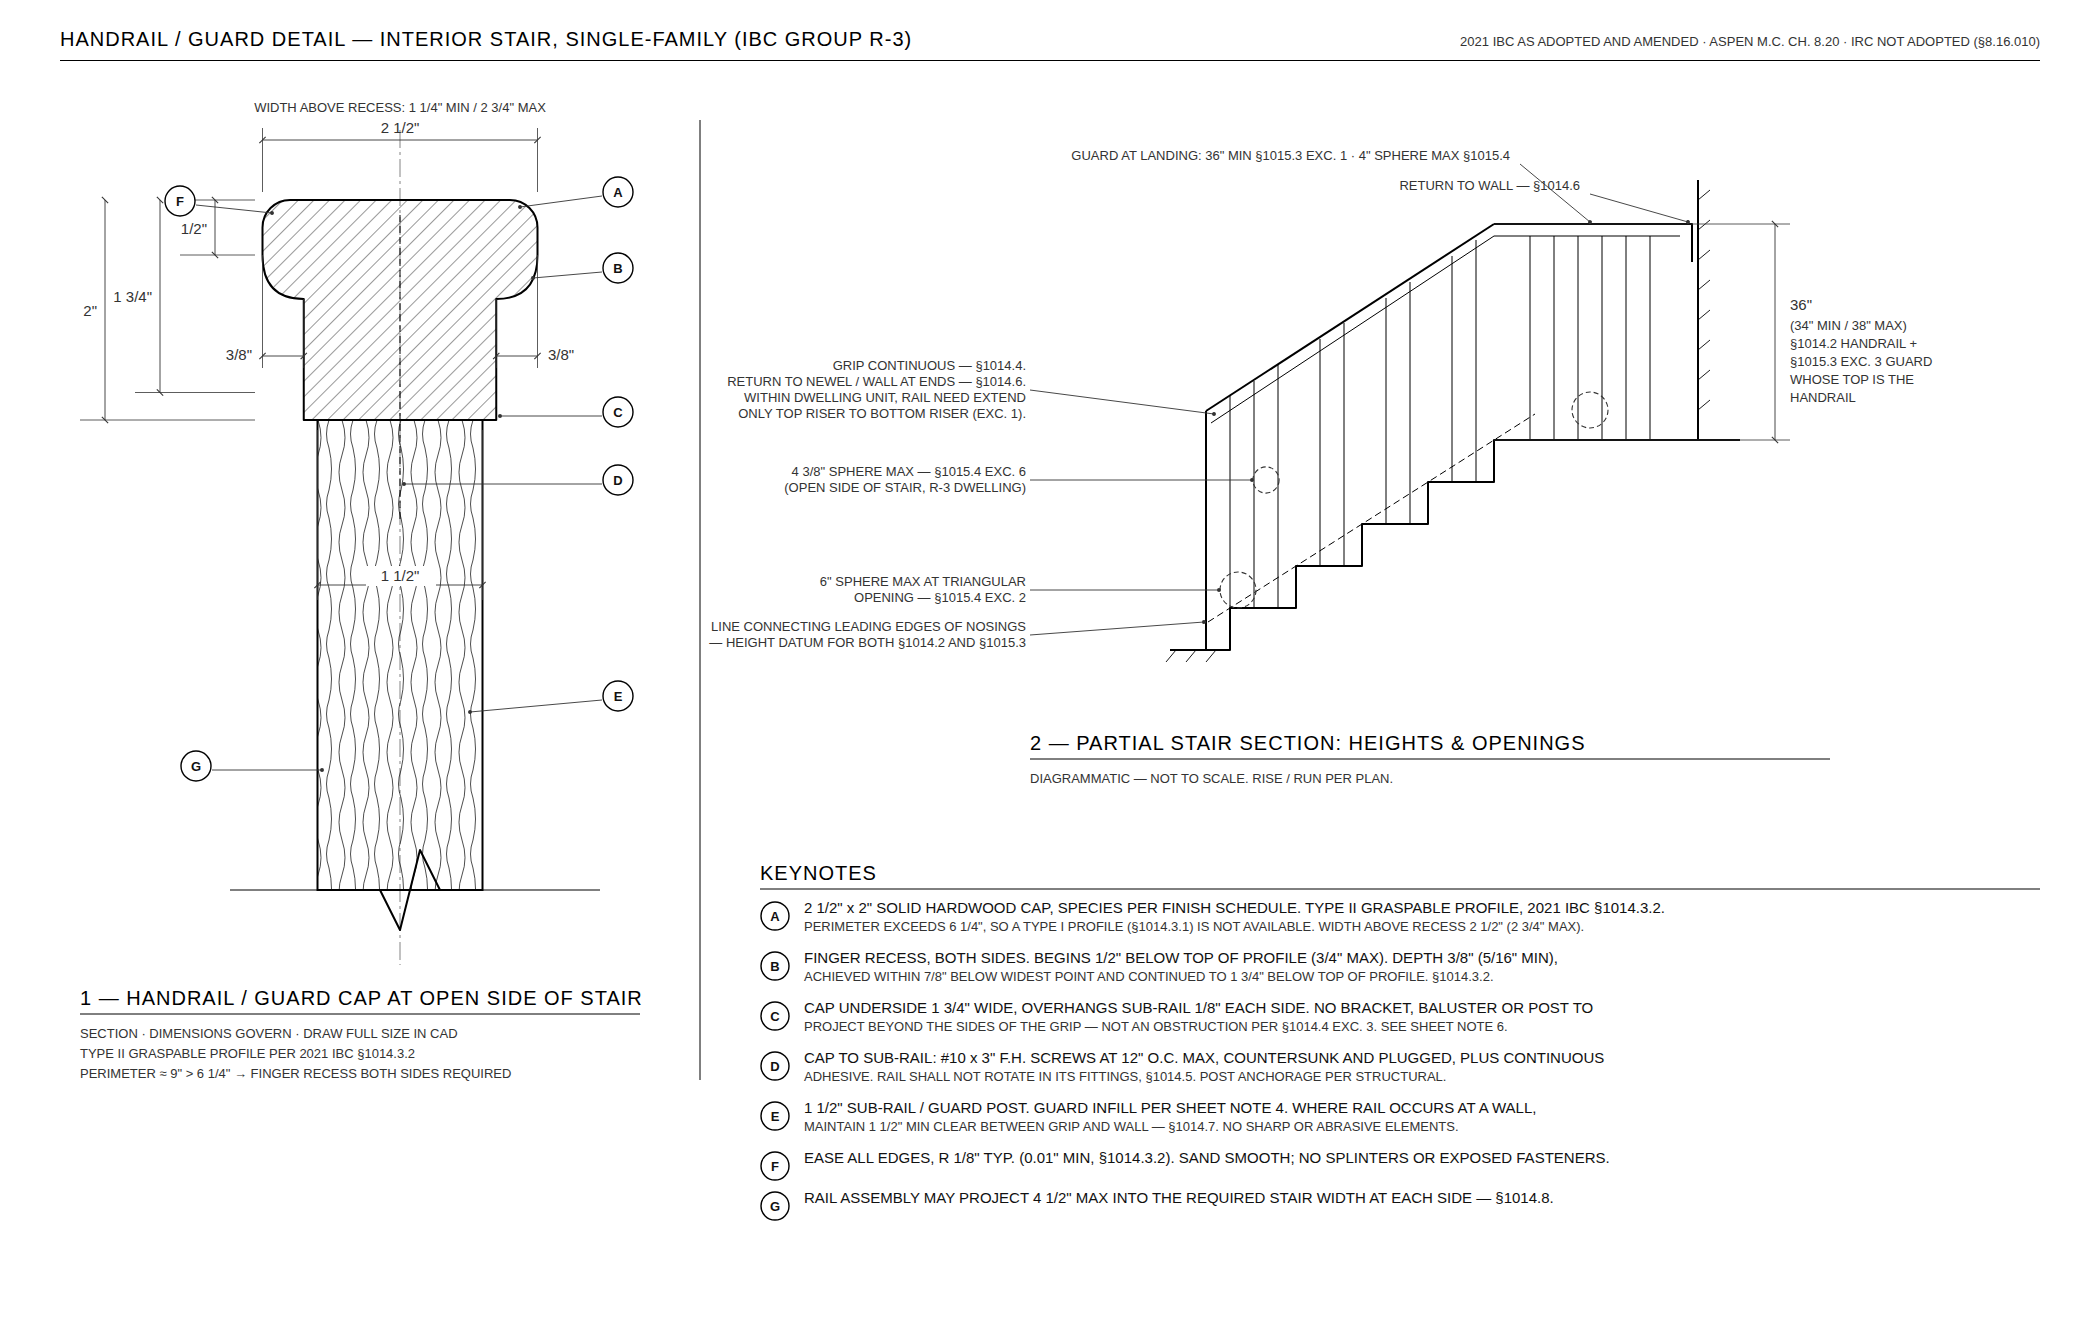
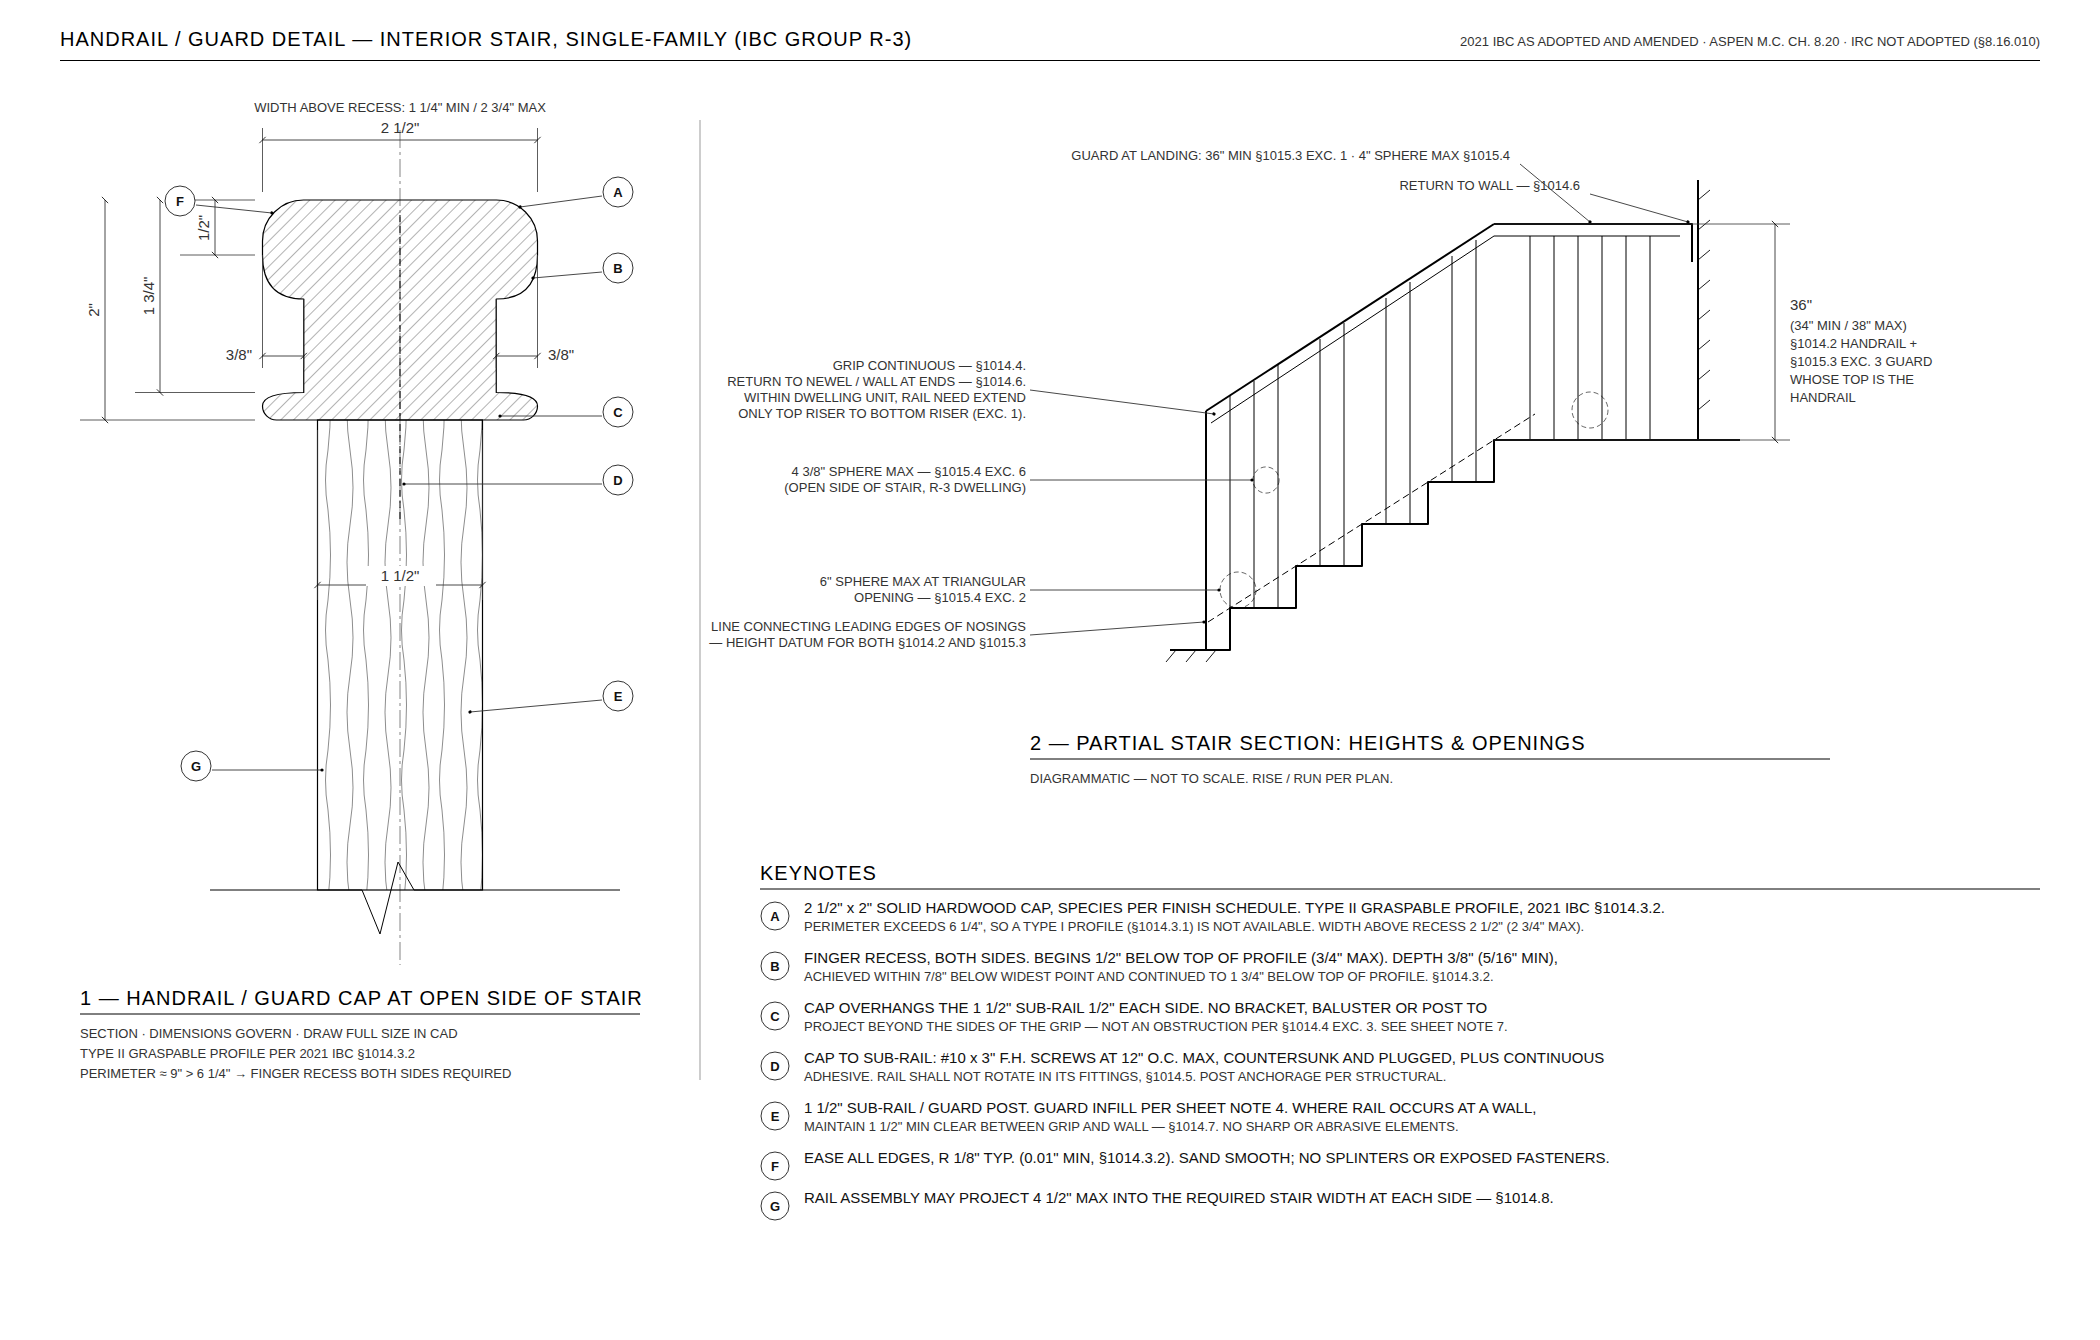
Match the original sketch's drawing language
Redraws the handrail detail to read like the sketch that was given, instead of
the heavier sheet drawn first.

- details/handrail-detail-as-drawn.svg/.png: faithful recreation of the original
  sketch. Same composition and dimension strings (2 1/2" across the top, the
  2" / 1 1/2" / 1/2" string rotated on the left, the 1/4" and 3/4" junction
  tags, 1 1/2" post, floor line with break), same thin line work and small
  Arial text. No code content added.
- details/handrail-guard-detail.svg: restyled to the same drawing language -
  1.2px object lines, 0.55px extension lines, tick-marked dimensions, sparse
  wood grain, rotated vertical dimension text, 12-13px text. The cap keeps the
  original rounded-rectangle silhouette with the 1014.3.2 finger recess cut
  into each side, rather than the T-shaped profile drawn before.
- Keynote C and the notes updated: the cap now flares back to 2 1/2" at the
  bottom, so it overhangs the 1 1/2" sub-rail 1/2" each side.

Claude-Session: https://claude.ai/code/session_01PFaHZKVJBCe4WxbVhteaJh

Changed region(s): [[0.1238, 0.153, 0.2786, 0.6731], [0.4024, 0.7343, 0.7429, 0.7649]]

diff --git a/details/handrail-guard-sheet-notes.md b/details/handrail-guard-sheet-notes.md
@@ -84,8 +84,8 @@ obstructions (Exc. 3); for each ½" of handrail perimeter above 4", the 1½" ver
 clearance may be reduced by ⅛".
 
 > **Calc for this profile:** 9" − 4" = 5"; 5 ÷ ½" = 10 increments; 10 × ⅛" = 1¼"
-> reduction; 1½" − 1¼" = **¼"** required clear. The 1½" sub-rail beneath a 1¾"-wide cap
-> underside does not project beyond the sides of the grip at any point, so Exc. 3 is
+> reduction; 1½" − 1¼" = **¼"** required clear. The 1½" sub-rail beneath the 2½"-wide cap
+> does not project beyond the sides of the grip at any point, so Exc. 3 is
 > satisfied with margin.
 
 **8. EXTENSIONS AND RETURNS (§1014.6).** Handrails shall return to a wall, guard or the
@@ -128,9 +128,9 @@ surface. Sand all graspable surfaces smooth; ease all edges R ⅛" typical.
 
 | Key | Note |
 |---|---|
-| A | 2½" × 2" solid hardwood cap, species per finish schedule. Type II graspable profile, §1014.3.2. Perimeter exceeds 6¼", so Type I (§1014.3.1) is not available. Width above recess 2½" (2¾" max). |
+| A | 2½" × 2" solid hardwood cap, species per finish schedule. Rounded-rectangle profile as originally drawn, with the finger recess required by §1014.3.2 cut into each side. Perimeter exceeds 6¼", so Type I (§1014.3.1) is not available. Width above recess 2½" (2¾" max). |
 | B | Finger recess, both sides. Begins ½" below top of profile (¾" max). Depth ⅜" (5/16" min), achieved within 7/8" below widest point and continued to 1¾" below top of profile. §1014.3.2. |
-| C | Cap underside 1¾" wide, overhangs sub-rail ⅛" each side. No bracket, baluster or post to project beyond the sides of the grip — not an obstruction per §1014.4 Exc. 3. See note 7. |
+| C | Cap overhangs the 1½" sub-rail ½" each side. No bracket, baluster or post to project beyond the sides of the grip — not an obstruction per §1014.4 Exc. 3. See note 7. |
 | D | Cap to sub-rail: #10 × 3" F.H. screws at 12" o.c. max, countersunk and plugged, plus continuous adhesive. Rail shall not rotate in its fittings, §1014.5. Post anchorage per structural. |
 | E | 1½" sub-rail / guard post. Guard infill per note 5. Where rail occurs at a wall, maintain 1½" min clear between grip and wall, §1014.7. No sharp or abrasive elements. |
 | F | Ease all edges, R ⅛" typ. (0.01" min, §1014.3.2). Sand smooth; no splinters or exposed fasteners. |
